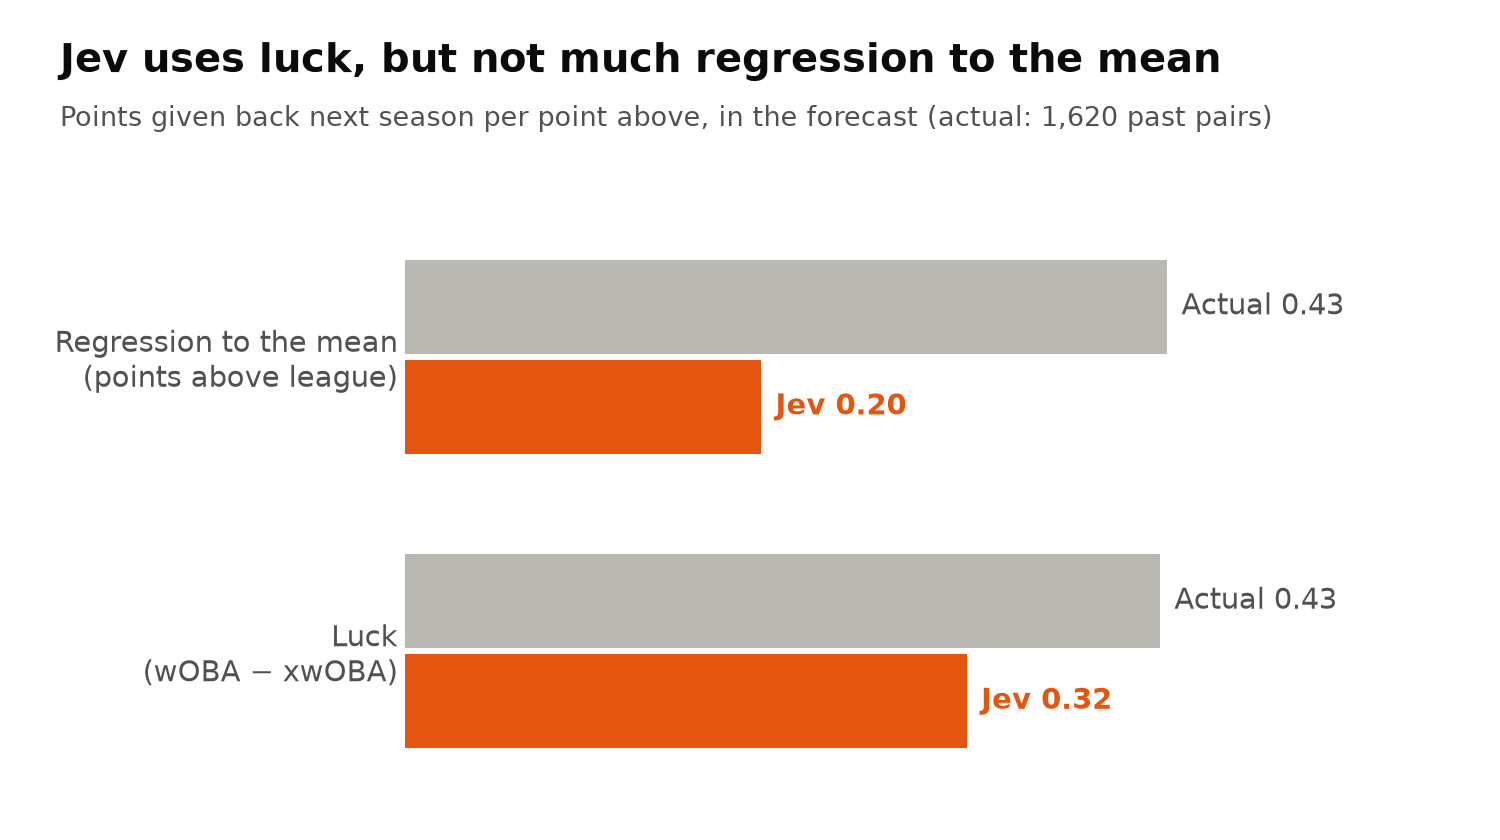
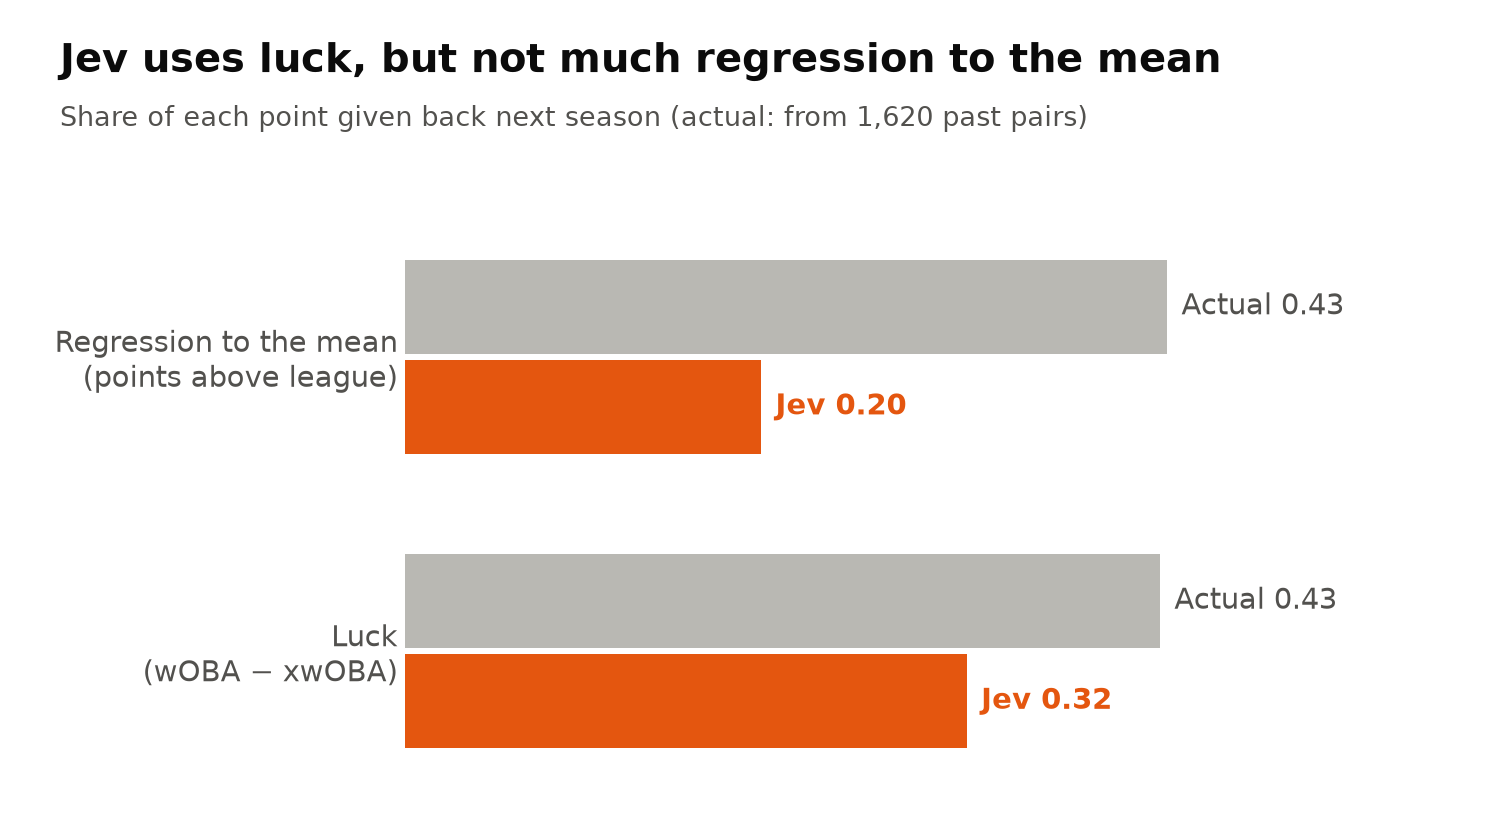
Charts: curve label room, legend swatch colour, clearer English subtitles and the repaired-forecast title
Claude-Session: https://claude.ai/code/session_01HuPvxPxit3S1V3EdoTCM6E

Changed region(s): [[0.0307, 0.1238, 0.8587, 0.1548]]

diff --git a/blog_ja/make_en.py b/blog_ja/make_en.py
@@ -6,7 +6,7 @@ import io, re, sys
 T = {
  # Jev
  "2025 → 2026 の wOBA の変化（1 = 0.001）": "Change in wOBA, 2025 to 2026 (1 = 0.001)",
- "2025 年に 1 点高かったとき、翌年に何点戻ると見ているか（実際は過去 1,620 組から）": "Points given back next season per point above, in the forecast (actual: 1,620 past pairs)",
+ "2025 年に 1 点高かったとき、翌年に何点戻ると見ているか（実際は過去 1,620 組から）": "Share of each point given back next season (actual: from 1,620 past pairs)",
  "ABS チャレンジ 250 件（2026 年 9 月）・灰色＝実際に判定が覆った割合 / 橙＝Jev の確率の平均": "250 ABS challenges (Sep 2026). Gray = share overturned, orange = Jev's average probability",
  "ABS チャレンジ 250 件（2026 年 9 月）・判定が覆った割合と、それぞれの予想の平均": "250 ABS challenges (Sep 2026). Share overturned, and each forecast's average",
  "Aaron Judge（.463）": "Aaron Judge (.463)", "Cal Raleigh（.392）": "Cal Raleigh (.392)",
@@ -20,7 +20,7 @@ T = {
  "Jev（そのまま）": "Jev (as is)", "Jev（学習なし）": "Jev (no examples)",
  "Marcel 法風のルール": "Marcel-style rule", "RPS（低いほど良い）": "RPS (lower is better)",
  "● Jev の予想": "● Jev's forecast", "● 実際": "● Actual",
- "■ Jev の確率の平均": "■ Jev's average probability", "■ 実際に起きた割合": "■ What actually happened",
+ "■ Jev の確率の平均": "■ Jev's average probability", "■ 実際に起きた割合": "■ What actually happened", "実際に起きた割合": "What actually happened",
  "さらに、足りない\\n平均への回帰を足す": "... plus the missing\\nregression to the mean",
  "はっきりした球ほど、Jev だけが確率を寄せきれない": "On clear-cut pitches, only Jev stays hesitant",
  "ほぼ\\n同じ": "About\\nsame", "運\\n（wOBA − xwOBA）": "Luck\\n(wOBA − xwOBA)",
@@ -32,24 +32,24 @@ T = {
  "実際 {act*100:.0f}%": "Actual {act*100:.0f}%", "実際 {act_w:.2f}": "Actual {act_w:.2f}",
  "実際の変化（wOBA、1 = 0.001）": "Actual change (wOBA, 1 = 0.001)",
  "少し\\n下がる": "Small\\ndrop", "少し\\n上がる": "Small\\nrise", "大きく\\n下がる": "Big\\ndrop", "大きく\\n上がる": "Big\\nrise",
- "打者 227 人・当て推量の RPS 0.195 から何ポイント下げたか（大きいほど良い）": "227 hitters. How far below guessing's RPS of 0.195 (bigger is better)",
- "打者 227 人・予想のばらつき（標準偏差）Jev 13・ルール 21（当たる予想でも実際の 36 より小さくなる）": "227 hitters. SD of forecasts: Jev 13, rule 21 (even a good forecast is below the actual 36)",
+ "打者 227 人・当て推量の RPS 0.195 から何ポイント下げたか（大きいほど良い）": "227 hitters. Improvement on the RPS of guessing, 0.195 (bigger is better)",
+ "打者 227 人・予想のばらつき（標準偏差）Jev 13・ルール 21（当たる予想でも実際の 36 より小さくなる）": "227 hitters. SD of forecasts: Jev 13, rule 21 (any good forecast varies less than the actual 36)",
  "大きく下がった強打者は外し、運の悪かった打者は当てた": "Jev missed the stars' big drops, got the unlucky hitters right",
  "点線＝予想と実際が同じ": "Dashed: forecast = actual",
  "当て推量からの上積みは、Marcel 法風ルールの 3 分の 1": "Jev's gain over guessing is a third of the Marcel-style rule's",
- "当て推量の RPS 0.195 から何ポイント下げたか（大きいほど良い）・結果を見た後の分析": "How far below guessing's RPS of 0.195 (bigger is better). Post-hoc analysis",
+ "当て推量の RPS 0.195 から何ポイント下げたか（大きいほど良い）・結果を見た後の分析": "Improvement on the RPS of guessing, 0.195 (bigger is better). Post-hoc",
  "判定と逆側\\n1 インチ以内": "Wrong side\\nwithin 1 in", "判定と逆側に\\n1 インチ以上": "Wrong side\\n1 in or more",
  "判定と逆側に\\n1 インチ以上（82 球）": "Wrong side of the call\\nby 1 in or more (82)",
  "判定どおりの側\\n1 インチ以内": "Called side\\nwithin 1 in",
  "判定どおりの側に\\n1 インチ以上（63 球）": "Called side\\nby more than 1 in (63)",
  "判定どおりの側に\\n1 インチ超": "Called side\\nmore than 1 in",
- "幅と平均への回帰を補った予想は、ルールと区別がつかない": "Repair width and regression, and it matches the rule",
+ "幅と平均への回帰を補った予想は、ルールと区別がつかない": "Width and regression filled in: indistinguishable from the rule",
  "平均への回帰\\n（リーグ平均より高い分）": "Regression to the mean\\n(points above league)",
  "明らかな球でも、Jev は覆る確率を控えめに出した": "Even on clear pitches, Jev's probabilities stay moderate",
  "予想した変化": "Forecast change",
  # ABS
  "0 ストライク": "0 strikes", "1 ストライク": "1 strike", "2 ストライク": "2 strikes",
- "1〜6 回": "Innings 1-6", "7〜8 回": "Innings 7-8", "9 回以降": "9th and later",
+ "1〜6 回": "Innings 1–6", "7〜8 回": "Innings 7–8", "9 回以降": "9th and later",
  "2 ストライクになると、打者のチャレンジは通りにくくなる": "With two strikes, batters' challenges win less often",
  "3A 2025 と MLB 2026 の両方で 5 回以上チャレンジした打者 63 人": "63 batters with 5+ challenges in both Triple-A 2025 and MLB 2026",
  "3A 2025 のチャレンジ率（%）": "Triple-A 2025 challenge rate (%)",
@@ -69,7 +69,7 @@ T = {
  "それ以外のストライク判定への異議\\n（全体の %d%%）": "Other strike calls\\n(%d%% of challenges)",
  "見逃し三振の判定への異議\\n（全体の %d%%）": "Called strike three\\n(%d%% of challenges)",
  "どのレベルでも、捕手のチャレンジが一番通る": "At every level, catchers win the most challenges",
- "どれだけ上手いか\\n順位相関 0.05": "How well\\nSpearman 0.05",
+ "期待との差\\n順位相関 0.05": "Vs expected\\nSpearman 0.05",
  "どれだけ挑むか\\n順位相関 0.37": "How often\\nSpearman 0.37",
  "ストライクに見せる技術と、判定を覆す判断は別もの": "Stealing strikes and winning challenges are different skills",
  "ゾーン外の見逃しがストライクになった割合（%）": "Out-of-zone takes called strikes (%)",

diff --git a/blog_ja/figs_en.py b/blog_ja/figs_en.py
@@ -58,7 +58,7 @@ for t, a in zip(ax.get_yticklabels(), arms):
         t.set_color(ORANGE); t.set_weight("bold")
 ax.set_xlim(0, 0.058); ax.set_xticks([])
 base(ax); ax.spines["bottom"].set_visible(False)
-title(fig, "Jev's gain over guessing is a third of the Marcel-style rule's", "227 hitters. How far below guessing's RPS of 0.195 (bigger is better)")
+title(fig, "Jev's gain over guessing is a third of the Marcel-style rule's", "227 hitters. Improvement on the RPS of guessing, 0.195 (bigger is better)")
 fig.savefig(f"{OUT}/en_2_gain.png"); plt.close(fig)
 
 # 3. Study 2: learning curve
@@ -67,7 +67,7 @@ mean = [0.2203, 0.1904, 0.1608, 0.1529, 0.1475, 0.1454]
 lo = [0.1659, 0.1565, 0.1471, 0.1451, 0.1436, 0.1454]
 hi = [0.3141, 0.2423, 0.1836, 0.1651, 0.1525, 0.1454]
 fig, ax = plt.subplots(figsize=(10, 6), dpi=150)
-fig.subplots_adjust(top=0.78, left=0.1, right=0.80, bottom=0.14)
+fig.subplots_adjust(top=0.78, left=0.1, right=0.74, bottom=0.14)
 ax.fill_between(ns, lo, hi, color=LIGHT, lw=0)
 ax.plot(ns, mean, color=SUB, lw=3, marker="o", ms=7)
 ax.axhline(0.1795, color=ORANGE, lw=3)
@@ -96,7 +96,8 @@ for i in x:
     ax.text(i + w/2, jev[i] + 0.008, f"{jev[i]*100:.0f}%", ha="center", fontsize=13, color=ORANGE, weight="bold")
 ax.set_xticks(list(x)); ax.set_xticklabels(bins, fontsize=14); ax.set_yticks([]); ax.set_ylim(0, 0.39)
 base(ax)
-fig.text(0.04, 0.83, "■ What actually happened", fontsize=13, color=SUB, ha="left", va="top")
+fig.text(0.04, 0.83, "■", fontsize=13, color=GRAY, ha="left", va="top")
+fig.text(0.06, 0.83, "What actually happened", fontsize=13, color=SUB, ha="left", va="top")
 fig.text(0.30, 0.83, "■ Jev's average probability", fontsize=13, color=ORANGE, ha="left", va="top")
 title(fig, "Jev rarely expects big moves")
 fig.savefig(f"{OUT}/en_4_spread.png"); plt.close(fig)
@@ -134,7 +135,7 @@ for ax, col, c, lab in ((axs[0], 0, ORANGE, "Jev"), (axs[1], 1, SUB, "Marcel-sty
     base(ax, left=True); ax.spines["left"].set_color(GRAY)
 axs[0].set_ylabel("Forecast change", fontsize=13, color=SUB)
 axs[1].text(0, -95, "Dashed: forecast = actual", fontsize=12, color=SUB)
-title(fig, "Jev's forecasts move only about 60% as much as the rule's", "227 hitters. SD of forecasts: Jev 13, rule 21 (even a good forecast is below the actual 36)")
+title(fig, "Jev's forecasts move only about 60% as much as the rule's", "227 hitters. SD of forecasts: Jev 13, rule 21 (any good forecast varies less than the actual 36)")
 fig.savefig(f"{OUT}/en_5_scatter.png"); plt.close(fig)
 
 # 6. Study 2: weights on regression to the mean and on luck (joint least squares)
@@ -149,7 +150,7 @@ for i, (lab, act_w, jev_w) in enumerate(items):
 ax.set_yticks([1, 0]); ax.set_yticklabels([x[0] for x in items], fontsize=14)
 ax.set_xlim(0, 0.55); ax.set_xticks([])
 base(ax); ax.spines["bottom"].set_visible(False)
-title(fig, "Jev uses luck, but not much regression to the mean", "Points given back next season per point above, in the forecast (actual: 1,620 past pairs)")
+title(fig, "Jev uses luck, but not much regression to the mean", "Share of each point given back next season (actual: from 1,620 past pairs)")
 fig.savefig(f"{OUT}/en_6_weights.png"); plt.close(fig)
 
 # 7. Study 2: named examples (wOBA points)
@@ -188,6 +189,6 @@ for i, (lab, r, c) in enumerate(arms8):
             weight="bold" if c == ORANGE else "normal")
 ax.set_yticks(range(len(arms8))[::-1]); ax.set_yticklabels([a[0] for a in arms8], fontsize=14)
 ax.set_xlim(0, 0.058); ax.set_xticks([]); base(ax); ax.spines["bottom"].set_visible(False)
-title(fig, "Repair width and regression, and it matches the rule", "How far below guessing's RPS of 0.195 (bigger is better). Post-hoc analysis")
+title(fig, "Width and regression filled in: indistinguishable from the rule", "Improvement on the RPS of guessing, 0.195 (bigger is better). Post-hoc")
 fig.savefig(f"{OUT}/en_8_width.png"); plt.close(fig)
 print("ok2")

diff --git a/blog_ja/figs_ja.py b/blog_ja/figs_ja.py
@@ -67,7 +67,7 @@ mean = [0.2203, 0.1904, 0.1608, 0.1529, 0.1475, 0.1454]
 lo = [0.1659, 0.1565, 0.1471, 0.1451, 0.1436, 0.1454]
 hi = [0.3141, 0.2423, 0.1836, 0.1651, 0.1525, 0.1454]
 fig, ax = plt.subplots(figsize=(10, 6), dpi=150)
-fig.subplots_adjust(top=0.78, left=0.1, right=0.80, bottom=0.14)
+fig.subplots_adjust(top=0.78, left=0.1, right=0.74, bottom=0.14)
 ax.fill_between(ns, lo, hi, color=LIGHT, lw=0)
 ax.plot(ns, mean, color=SUB, lw=3, marker="o", ms=7)
 ax.axhline(0.1795, color=ORANGE, lw=3)
@@ -96,7 +96,8 @@ for i in x:
     ax.text(i + w/2, jev[i] + 0.008, f"{jev[i]*100:.0f}%", ha="center", fontsize=13, color=ORANGE, weight="bold")
 ax.set_xticks(list(x)); ax.set_xticklabels(bins, fontsize=14); ax.set_yticks([]); ax.set_ylim(0, 0.39)
 base(ax)
-fig.text(0.04, 0.83, "■ 実際に起きた割合", fontsize=13, color=SUB, ha="left", va="top")
+fig.text(0.04, 0.83, "■", fontsize=13, color=GRAY, ha="left", va="top")
+fig.text(0.06, 0.83, "実際に起きた割合", fontsize=13, color=SUB, ha="left", va="top")
 fig.text(0.30, 0.83, "■ Jev の確率の平均", fontsize=13, color=ORANGE, ha="left", va="top")
 title(fig, "Jev は「大きく動く」をほとんど想定していない")
 fig.savefig(f"{OUT}/ja_4_spread.png"); plt.close(fig)
